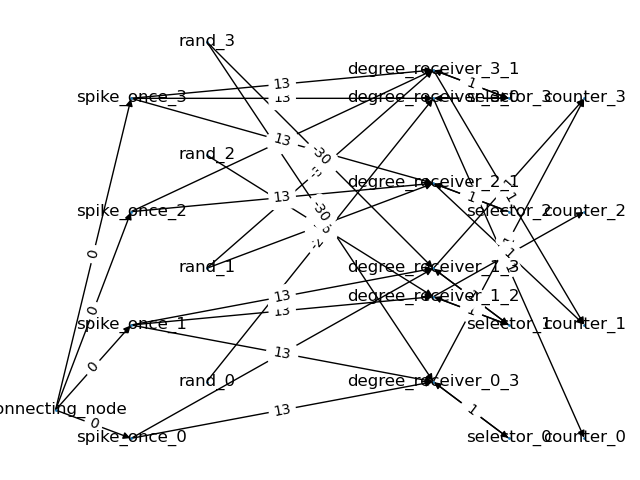
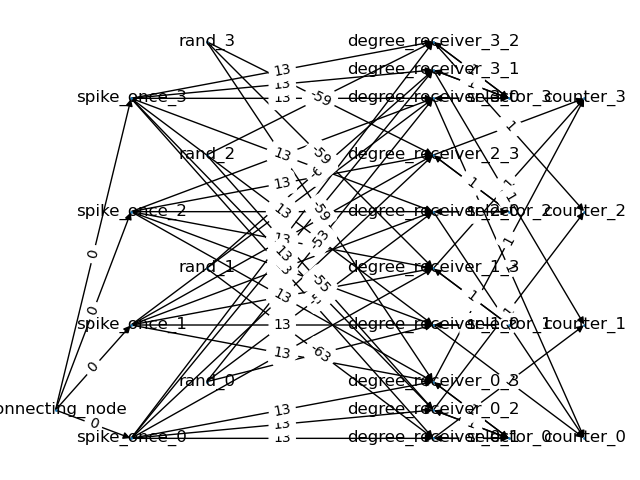
Restored tests.

diff --git a/test/create_testobject.py b/test/create_testobject.py
@@ -75,7 +75,9 @@ def create_test_object(
     # - The excitatory neuron comes in at +1, a buffer of 1 yields+2.
     # Hence, the inhibition is computed as:
     test_object.inhibition = (
-        len(test_object.G) * (test_object.rand_ceil + 1) + test_object.rand_ceil + 2
+        len(test_object.G) * (test_object.rand_ceil * test_object.delta + 1)
+        + (test_object.rand_ceil) * test_object.delta
+        + 1
     )
     test_object.rand_nrs = [x - test_object.inhibition for x in test_object.rand_nrs]
     print(
